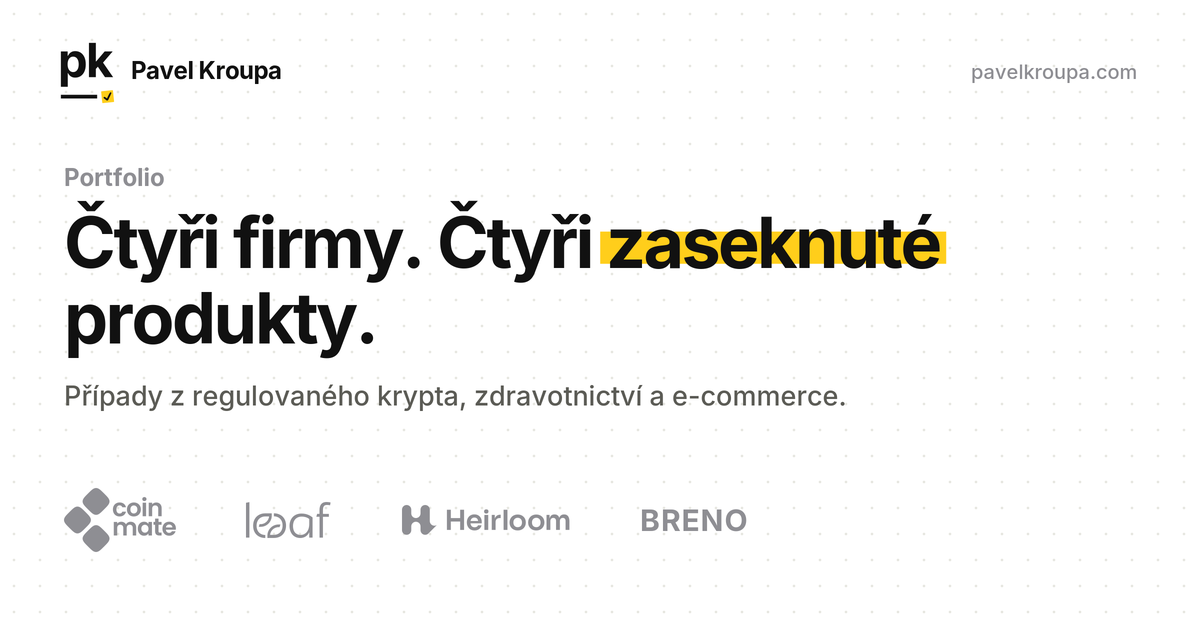
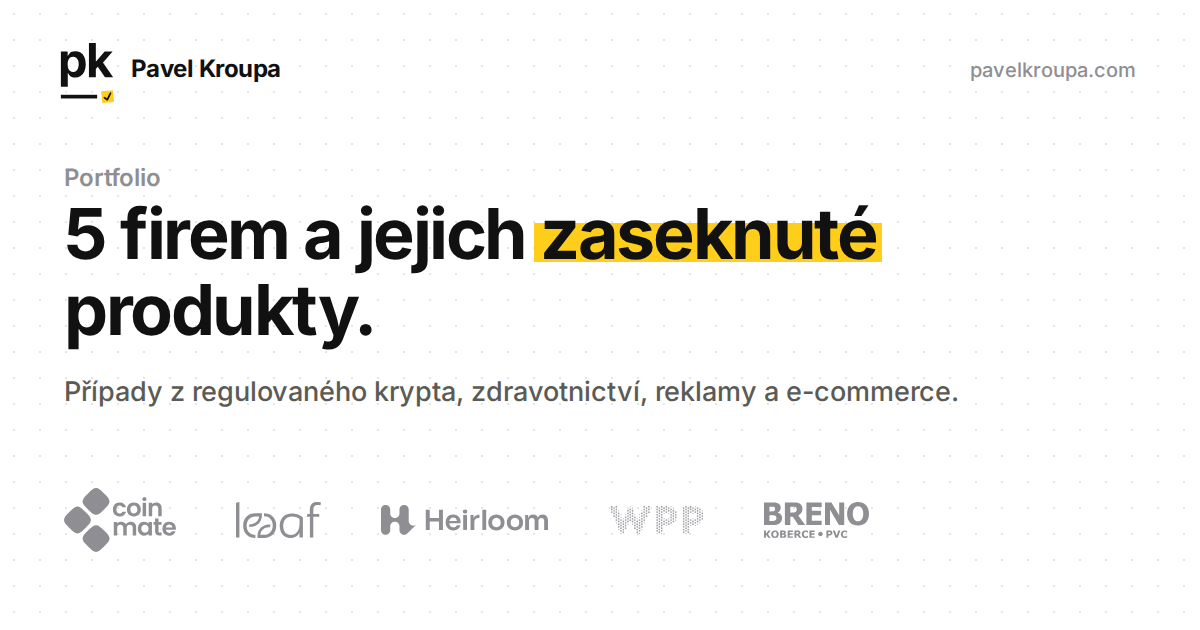
WPP case: year 2025; portfolio share images for five companies
Claude-Session: https://claude.ai/code/session_016LBnhokx8BzhS1X7NoBrmP

diff --git a/portfolio/wpp/index.html b/portfolio/wpp/index.html
@@ -30,7 +30,7 @@
 <meta property="og:image:type" content="image/png">
 <meta property="og:image:width" content="1200">
 <meta property="og:image:height" content="630">
-<meta property="og:image:alt" content="Portfolio: Čtyři firmy. Čtyři zaseknuté produkty.">
+<meta property="og:image:alt" content="Portfolio: 5 firem a jejich zaseknuté produkty.">
 <meta name="twitter:card" content="summary_large_image">
 <meta name="twitter:title" content="WPP: expresní audit kampaně před spuštěním">
 <meta name="twitter:description" content="Expresní audit kampaně na desktopu i mobilu. WPP ji před spuštěním pozastavilo a opravilo.">
@@ -206,7 +206,7 @@
   <section class="canvas case-top">
     <div class="wrap">
       <p class="crumb"><a href="/portfolio/"><span>Všechny případy</span></a></p>
-      <img class="case-logo" src="/assets/img/wpp-16e1408e.svg" alt="WPP"><p class="eyebrow sig">WPP &middot; Reklamní agentura, kampaň pro velkého klienta</p>
+      <img class="case-logo" src="/assets/img/wpp-16e1408e.svg" alt="WPP"><p class="eyebrow sig">WPP &middot; 2025 &middot; Reklamní agentura, kampaň pro velkého klienta</p>
       <h1>Expresní <span class="fix">audit</span> před spuštěním kampaně.</h1>
     </div>
   </section>
@@ -215,7 +215,7 @@
       <p class="eyebrow tl-h">Časová osa</p>
       <ol class="tl" aria-label="Co se stalo, po pořadí"><li class="tl-i tl-knot"><div class="tl-meta"></div><span class="tl-tag">Kde se to zaseklo</span><p class="tl-t">Kampaň těsně před produkcí</p><p class="tl-d">WPP chystalo velkou kampaň pro svého klienta. Před produkcí a spuštěním bylo potřeba rychle zjistit, co v ní nefunguje.</p></li><li class="tl-i tl-step"><div class="tl-meta"><span class="tl-n">Krok 1</span></div><p class="tl-t">Audit na desktopu i mobilu</p><p class="tl-d">Prošel jsem kampaň na počítači i na telefonu a nahrál audit obrazovky s komentářem.</p></li><li class="tl-i tl-step"><div class="tl-meta"><span class="tl-n">Krok 2</span></div><p class="tl-t">Rychlé připomínkování</p><p class="tl-d">Nahrávku jsem poslal týmu, aby mohl připomínky projít hned, bez schůzky.</p></li><li class="tl-i tl-step"><div class="tl-meta"><span class="tl-n">Krok 3</span></div><p class="tl-t">Pozastavení a opravy</p><p class="tl-d">Tým kampaň pozastavil a opravil to důležité.</p></li><li class="tl-i tl-end"><div class="tl-meta"></div><span class="tl-tag">Výsledek</span><p class="tl-t">Kampaň opravená před spuštěním</p><p class="tl-d">Klient tak neschválil a nepustil ven kampaň s chybami. Opravila se dřív, než ji kdokoli viděl.</p></li></ol>
       <p class="eyebrow tl-h">Ve zkratce</p>
-      <dl class="tl-facts"><div><dt>Klient</dt><dd>WPP</dd></div><div><dt>Obor</dt><dd>Reklamní agentura, kampaň pro velkého klienta</dd></div><div><dt>Moje role</dt><dd>Expresní audit &middot; desktop i mobil</dd></div></dl>
+      <dl class="tl-facts"><div><dt>Klient</dt><dd>WPP</dd></div><div><dt>Období</dt><dd>2025</dd></div><div><dt>Obor</dt><dd>Reklamní agentura, kampaň pro velkého klienta</dd></div><div><dt>Moje role</dt><dd>Expresní audit &middot; desktop i mobil</dd></div></dl>
       <div class="case-cta"><p>Rozhodnutí, rizika a co to stálo vám ukážu na hovoru nebo na schůzce.</p><a class="btn btn-fill" href="/contact/">Domluvit 30minutový hovor</a></div>
     </div>
   </section>

diff --git a/en/portfolio/wpp/index.html b/en/portfolio/wpp/index.html
@@ -30,7 +30,7 @@
 <meta property="og:image:type" content="image/png">
 <meta property="og:image:width" content="1200">
 <meta property="og:image:height" content="630">
-<meta property="og:image:alt" content="Portfolio: 4 companies. 4 stuck products.">
+<meta property="og:image:alt" content="Portfolio: 5 companies and their stuck products.">
 <meta name="twitter:card" content="summary_large_image">
 <meta name="twitter:title" content="WPP: Express Audit Before a Campaign Launch">
 <meta name="twitter:description" content="An express audit of a campaign on desktop and mobile. WPP paused it and fixed it before launch.">
@@ -205,7 +205,7 @@
   <section class="canvas case-top">
     <div class="wrap">
       <p class="crumb"><a href="/en/portfolio/"><span>All case studies</span></a></p>
-      <img class="case-logo" src="/assets/img/wpp-16e1408e.svg" alt="WPP"><p class="eyebrow sig">WPP &middot; Advertising agency, a campaign for a major client</p>
+      <img class="case-logo" src="/assets/img/wpp-16e1408e.svg" alt="WPP"><p class="eyebrow sig">WPP &middot; 2025 &middot; Advertising agency, a campaign for a major client</p>
       <h1>An express <span class="fix">audit</span> before a campaign launch.</h1>
     </div>
   </section>
@@ -214,7 +214,7 @@
       <p class="eyebrow tl-h">Timeline</p>
       <ol class="tl" aria-label="What happened, step by step"><li class="tl-i tl-knot"><div class="tl-meta"></div><span class="tl-tag">Where it was stuck</span><p class="tl-t">A campaign just before production</p><p class="tl-d">WPP was preparing a big campaign for a major client. Before production and launch, they needed a fast check of what wasn't working.</p></li><li class="tl-i tl-step"><div class="tl-meta"><span class="tl-n">Step 1</span></div><p class="tl-t">Audit on desktop and mobile</p><p class="tl-d">I went through the campaign on a computer and on a phone and recorded a narrated screen audit.</p></li><li class="tl-i tl-step"><div class="tl-meta"><span class="tl-n">Step 2</span></div><p class="tl-t">Fast feedback</p><p class="tl-d">I sent the recording to the team so they could go through the comments right away, without a meeting.</p></li><li class="tl-i tl-step"><div class="tl-meta"><span class="tl-n">Step 3</span></div><p class="tl-t">Pause and fix</p><p class="tl-d">The team paused the campaign and fixed what mattered.</p></li><li class="tl-i tl-end"><div class="tl-meta"></div><span class="tl-tag">Result</span><p class="tl-t">Campaign fixed before launch</p><p class="tl-d">The client didn't approve or release a campaign with errors. It was fixed before anyone saw it.</p></li></ol>
       <p class="eyebrow tl-h">At a glance</p>
-      <dl class="tl-facts"><div><dt>Client</dt><dd>WPP</dd></div><div><dt>Field</dt><dd>Advertising agency, a campaign for a major client</dd></div><div><dt>My role</dt><dd>Express audit &middot; desktop and mobile</dd></div></dl>
+      <dl class="tl-facts"><div><dt>Client</dt><dd>WPP</dd></div><div><dt>Period</dt><dd>2025</dd></div><div><dt>Field</dt><dd>Advertising agency, a campaign for a major client</dd></div><div><dt>My role</dt><dd>Express audit &middot; desktop and mobile</dd></div></dl>
       <div class="case-cta"><p>I'll walk you through the decisions, risks, and costs on a call or in a meeting.</p><a class="btn btn-fill" href="/en/contact/">Book a 30-minute call</a></div>
     </div>
   </section>

diff --git a/portfolio/coinmate/index.html b/portfolio/coinmate/index.html
@@ -30,7 +30,7 @@
 <meta property="og:image:type" content="image/png">
 <meta property="og:image:width" content="1200">
 <meta property="og:image:height" content="630">
-<meta property="og:image:alt" content="Portfolio: Čtyři firmy. Čtyři zaseknuté produkty.">
+<meta property="og:image:alt" content="Portfolio: 5 firem a jejich zaseknuté produkty.">
 <meta name="twitter:card" content="summary_large_image">
 <meta name="twitter:title" content="Coinmate: design systém a nová identita">
 <meta name="twitter:description" content="Regulovaná kryptoburza. Nejdřív design systém, potom nová identita. Rebranding spuštěn 1. 10. 2026.">
@@ -227,7 +227,7 @@
       <p class="eyebrow sig">Další případy</p>
       <div class="cards case-cards next-two">
       <a class="card case-card" href="/portfolio/wpp/">
-        <img class="card-logo" src="/assets/img/wpp-16e1408e.svg" alt="WPP"><span class="card-meta">WPP &middot; Expresní audit</span>
+        <img class="card-logo" src="/assets/img/wpp-16e1408e.svg" alt="WPP"><span class="card-meta">WPP &middot; 2025</span>
         <h3 class="card-title">Expresní audit kampaně před spuštěním</h3>
         <span class="card-proves">Kampaň opravená dřív, než šla ven.</span>
         <span class="card-go">Otevřít případ</span>

diff --git a/en/portfolio/coinmate/index.html b/en/portfolio/coinmate/index.html
@@ -30,7 +30,7 @@
 <meta property="og:image:type" content="image/png">
 <meta property="og:image:width" content="1200">
 <meta property="og:image:height" content="630">
-<meta property="og:image:alt" content="Portfolio: 4 companies. 4 stuck products.">
+<meta property="og:image:alt" content="Portfolio: 5 companies and their stuck products.">
 <meta name="twitter:card" content="summary_large_image">
 <meta name="twitter:title" content="Coinmate: Design System and New Brand Identity">
 <meta name="twitter:description" content="Regulated crypto exchange. A design system first, then a new brand identity. Rebrand launched October 1, 2026.">
@@ -226,7 +226,7 @@
       <p class="eyebrow sig">More case studies</p>
       <div class="cards case-cards next-two">
       <a class="card case-card" href="/en/portfolio/wpp/">
-        <img class="card-logo" src="/assets/img/wpp-16e1408e.svg" alt="WPP"><span class="card-meta">WPP &middot; Express audit</span>
+        <img class="card-logo" src="/assets/img/wpp-16e1408e.svg" alt="WPP"><span class="card-meta">WPP &middot; 2025</span>
         <h3 class="card-title">An express audit before a campaign launch</h3>
         <span class="card-proves">The campaign was fixed before it went out.</span>
         <span class="card-go">Read the case study</span>

diff --git a/portfolio/heirloom/index.html b/portfolio/heirloom/index.html
@@ -30,7 +30,7 @@
 <meta property="og:image:type" content="image/png">
 <meta property="og:image:width" content="1200">
 <meta property="og:image:height" content="630">
-<meta property="og:image:alt" content="Portfolio: Čtyři firmy. Čtyři zaseknuté produkty.">
+<meta property="og:image:alt" content="Portfolio: 5 firem a jejich zaseknuté produkty.">
 <meta name="twitter:card" content="summary_large_image">
 <meta name="twitter:title" content="Heirloom: nový business směr za čtyři iterace">
 <meta name="twitter:description" content="Digitální dědictví. Nejdřív funkční prototyp, potom zadání. Nový směr jsme uzavřeli za čtyři sezení.">
@@ -230,7 +230,7 @@
         <span class="card-go">Otevřít případ</span>
       </a>
       <a class="card case-card" href="/portfolio/wpp/">
-        <img class="card-logo" src="/assets/img/wpp-16e1408e.svg" alt="WPP"><span class="card-meta">WPP &middot; Expresní audit</span>
+        <img class="card-logo" src="/assets/img/wpp-16e1408e.svg" alt="WPP"><span class="card-meta">WPP &middot; 2025</span>
         <h3 class="card-title">Expresní audit kampaně před spuštěním</h3>
         <span class="card-proves">Kampaň opravená dřív, než šla ven.</span>
         <span class="card-go">Otevřít případ</span>

diff --git a/portfolio/index.html b/portfolio/index.html
@@ -30,7 +30,7 @@
 <meta property="og:image:type" content="image/png">
 <meta property="og:image:width" content="1200">
 <meta property="og:image:height" content="630">
-<meta property="og:image:alt" content="Portfolio: Čtyři firmy. Čtyři zaseknuté produkty.">
+<meta property="og:image:alt" content="Portfolio: 5 firem a jejich zaseknuté produkty.">
 <meta name="twitter:card" content="summary_large_image">
 <meta name="twitter:title" content="Portfolio · Pavel Kroupa">
 <meta name="twitter:description" content="Pět firem, pět zaseknutých projektů. Heirloom, Coinmate, WPP, Leeaf a BRENO. Co se rozhodlo a jak to dopadlo.">
@@ -211,7 +211,7 @@
         <span class="card-go">Otevřít případ</span>
       </a>
       <a class="card case-card" href="/portfolio/wpp/">
-        <img class="card-logo" src="/assets/img/wpp-16e1408e.svg" alt="WPP"><span class="card-meta">WPP &middot; Expresní audit</span>
+        <img class="card-logo" src="/assets/img/wpp-16e1408e.svg" alt="WPP"><span class="card-meta">WPP &middot; 2025</span>
         <h3 class="card-title">Expresní audit kampaně před spuštěním</h3>
         <span class="card-proves">Kampaň opravená dřív, než šla ven.</span>
         <span class="card-go">Otevřít případ</span>

diff --git a/en/portfolio/heirloom/index.html b/en/portfolio/heirloom/index.html
@@ -30,7 +30,7 @@
 <meta property="og:image:type" content="image/png">
 <meta property="og:image:width" content="1200">
 <meta property="og:image:height" content="630">
-<meta property="og:image:alt" content="Portfolio: 4 companies. 4 stuck products.">
+<meta property="og:image:alt" content="Portfolio: 5 companies and their stuck products.">
 <meta name="twitter:card" content="summary_large_image">
 <meta name="twitter:title" content="Heirloom: A New Business Direction in 4 Iterations">
 <meta name="twitter:description" content="Digital legacy. The prototype came before the spec. We settled the new direction in 4 sessions.">
@@ -229,7 +229,7 @@
         <span class="card-go">Read the case study</span>
       </a>
       <a class="card case-card" href="/en/portfolio/wpp/">
-        <img class="card-logo" src="/assets/img/wpp-16e1408e.svg" alt="WPP"><span class="card-meta">WPP &middot; Express audit</span>
+        <img class="card-logo" src="/assets/img/wpp-16e1408e.svg" alt="WPP"><span class="card-meta">WPP &middot; 2025</span>
         <h3 class="card-title">An express audit before a campaign launch</h3>
         <span class="card-proves">The campaign was fixed before it went out.</span>
         <span class="card-go">Read the case study</span>

diff --git a/en/portfolio/index.html b/en/portfolio/index.html
@@ -30,7 +30,7 @@
 <meta property="og:image:type" content="image/png">
 <meta property="og:image:width" content="1200">
 <meta property="og:image:height" content="630">
-<meta property="og:image:alt" content="Portfolio: 4 companies. 4 stuck products.">
+<meta property="og:image:alt" content="Portfolio: 5 companies and their stuck products.">
 <meta name="twitter:card" content="summary_large_image">
 <meta name="twitter:title" content="Portfolio · Pavel Kroupa">
 <meta name="twitter:description" content="5 projects that got unstuck: Heirloom, Coinmate, WPP, Leeaf, and BRENO. What was decided and how it turned out.">
@@ -210,7 +210,7 @@
         <span class="card-go">Read the case study</span>
       </a>
       <a class="card case-card" href="/en/portfolio/wpp/">
-        <img class="card-logo" src="/assets/img/wpp-16e1408e.svg" alt="WPP"><span class="card-meta">WPP &middot; Express audit</span>
+        <img class="card-logo" src="/assets/img/wpp-16e1408e.svg" alt="WPP"><span class="card-meta">WPP &middot; 2025</span>
         <h3 class="card-title">An express audit before a campaign launch</h3>
         <span class="card-proves">The campaign was fixed before it went out.</span>
         <span class="card-go">Read the case study</span>

diff --git a/portfolio/leeaf/index.html b/portfolio/leeaf/index.html
@@ -30,7 +30,7 @@
 <meta property="og:image:type" content="image/png">
 <meta property="og:image:width" content="1200">
 <meta property="og:image:height" content="630">
-<meta property="og:image:alt" content="Portfolio: Čtyři firmy. Čtyři zaseknuté produkty.">
+<meta property="og:image:alt" content="Portfolio: 5 firem a jejich zaseknuté produkty.">
 <meta name="twitter:card" content="summary_large_image">
 <meta name="twitter:title" content="Leeaf: jedna aplikace pro mnoho klinik">
 <meta name="twitter:description" content="Léčba neplodnosti. Škálovatelný design systém a white label. Další kliniky běžely na stejném systému.">

diff --git a/portfolio/breno/index.html b/portfolio/breno/index.html
@@ -30,7 +30,7 @@
 <meta property="og:image:type" content="image/png">
 <meta property="og:image:width" content="1200">
 <meta property="og:image:height" content="630">
-<meta property="og:image:alt" content="Portfolio: Čtyři firmy. Čtyři zaseknuté produkty.">
+<meta property="og:image:alt" content="Portfolio: 5 firem a jejich zaseknuté produkty.">
 <meta name="twitter:card" content="summary_large_image">
 <meta name="twitter:title" content="BRENO: dvoudenní prioritizace backlogu">
 <meta name="twitter:description" content="Maloobchod a e-shop. Dvoudenní workshop přes WPP. Vedení, vývoj i marketing se shodli na pořadí priorit.">

diff --git a/en/portfolio/breno/index.html b/en/portfolio/breno/index.html
@@ -30,7 +30,7 @@
 <meta property="og:image:type" content="image/png">
 <meta property="og:image:width" content="1200">
 <meta property="og:image:height" content="630">
-<meta property="og:image:alt" content="Portfolio: 4 companies. 4 stuck products.">
+<meta property="og:image:alt" content="Portfolio: 5 companies and their stuck products.">
 <meta name="twitter:card" content="summary_large_image">
 <meta name="twitter:title" content="BRENO: Backlog Prioritization in 2 Days">
 <meta name="twitter:description" content="Retail and e-commerce. A 2-day workshop through WPP. Leadership, engineering, and marketing agreed on priorities.">

diff --git a/en/portfolio/leeaf/index.html b/en/portfolio/leeaf/index.html
@@ -30,7 +30,7 @@
 <meta property="og:image:type" content="image/png">
 <meta property="og:image:width" content="1200">
 <meta property="og:image:height" content="630">
-<meta property="og:image:alt" content="Portfolio: 4 companies. 4 stuck products.">
+<meta property="og:image:alt" content="Portfolio: 5 companies and their stuck products.">
 <meta name="twitter:card" content="summary_large_image">
 <meta name="twitter:title" content="Leeaf: One App for Many Clinics">
 <meta name="twitter:description" content="Fertility treatment. A scalable, white-label design system. More clinics launched on the same system.">
